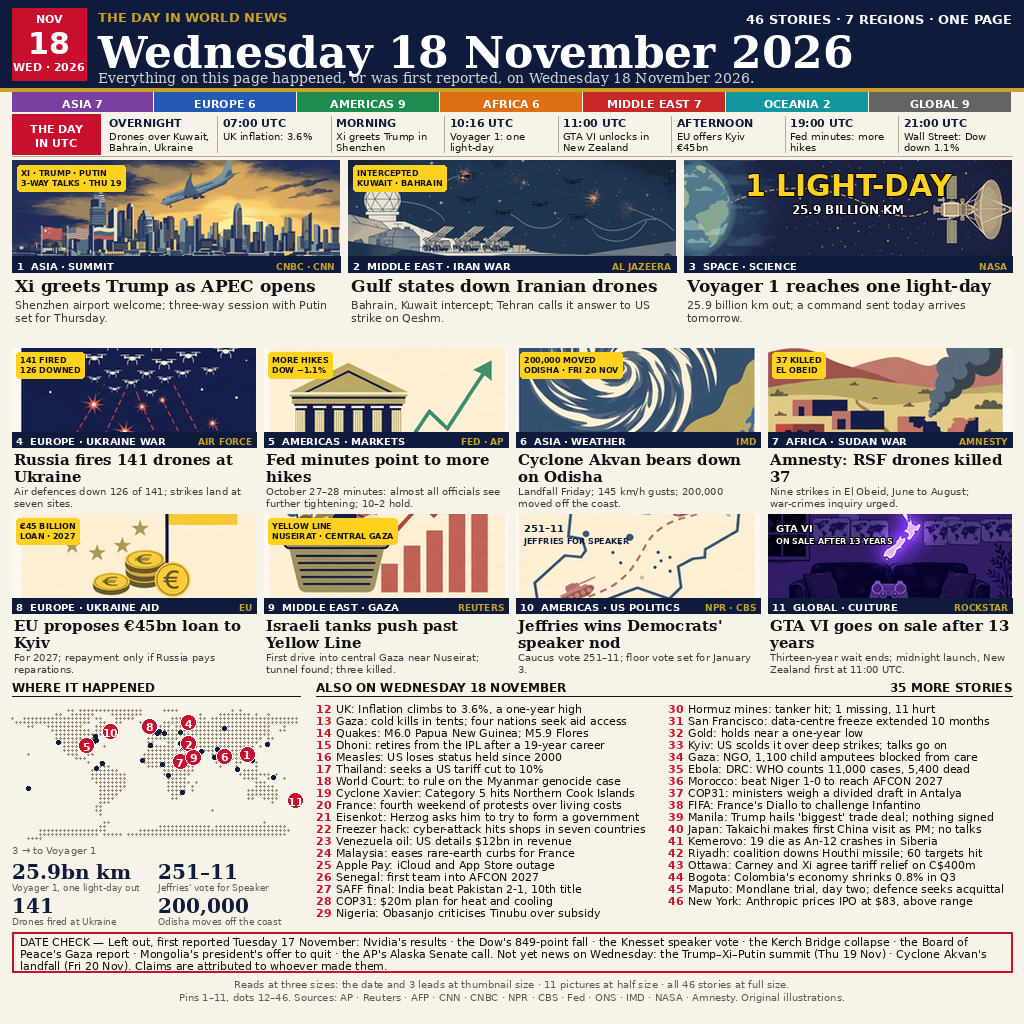
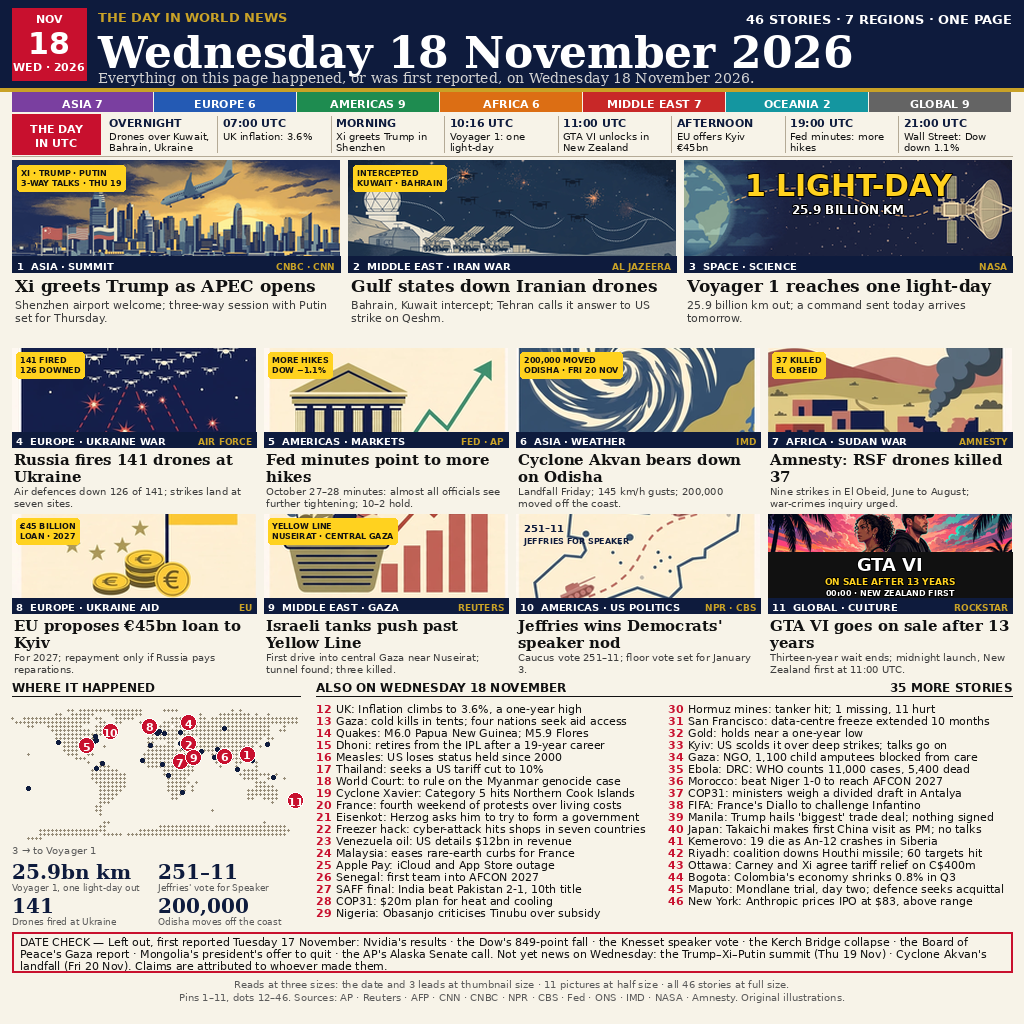
v13: GTA VI poster art + rstrike-style 3-line text

Changed region(s): [[0.75, 0.5, 1.0, 0.5938]]

diff --git a/draw.py b/draw.py
@@ -1,5 +1,5 @@
 #!/usr/bin/env python3
-"""news-image-20261118 v12: 46 stories, UTC timeline, region strip, small in-art tags.
+"""news-image-20261118 v13: 46 stories, UTC timeline, region strip, small in-art tags.
 Draws entry.png (1024x1024, deterministic) from assets/ + world.geo.json.
 Run: python3 draw.py  -> writes entry.png in this directory."""
 import json
@@ -48,6 +48,9 @@ F_FOC = font("DejaVuSans-Bold.ttf", 30)
 F_FOC_S = font("DejaVuSans-Bold.ttf", 12)
 F_FOC2 = font("DejaVuSans-Bold.ttf", 10)
 F_FOC2_S = font("DejaVuSans-Bold.ttf", 8)
+F_GTA = font("DejaVuSans-Bold.ttf", 18)
+F_GTA_S = font("DejaVuSans-Bold.ttf", 9)
+F_GTA_T = font("DejaVuSans-Bold.ttf", 8)
 F_ALSO = font("DejaVuSans.ttf", 11)
 F_ALSO_N = font("DejaVuSans-Bold.ttf", 11)
 F_SEC = font("DejaVuSans-Bold.ttf", 12)
@@ -122,7 +125,7 @@ FRONT = [
     (11, "GLOBAL", "CULTURE", "ROCKSTAR",
      "GTA VI goes on sale after 13 years",
      "Thirteen-year wait ends; midnight launch, New Zealand first at 11:00 UTC.",
-     "", ("GTA VI", "ON SALE AFTER 13 YEARS", "WHITE", False), "s8-11.png"),
+     "", ("GTA VI", "ON SALE AFTER 13 YEARS", "00:00 · NEW ZEALAND FIRST", "WHITE", True), "s13-11.png"),
 ]
 
 # num, city, text
@@ -255,12 +258,28 @@ def art_text(img, d, x, y, w, h, big, small, f_big, f_small):
                fill="white", stroke_width=1, stroke_fill=(0, 0, 0))
 
 
-def focal_text(d, x, y, w, h, big, small, f_big, f_small, color, center):
+def focal_text(d, x, y, w, h, big, small, f_big, f_small, color, center,
+               third=None, f_third=None, small_fill=None):
     """One focal line + one small line, rstrike-style: big only where the art
-    is built around it (dark space, pale map, dark photo)."""
+    is built around it (dark space, pale map, dark photo). Optional third
+    line (GTA band) is centred as a block inside the given box."""
     col = {"YELLOW": YELLOW, "NAVY": NAVY, "WHITE": "white"}[color]
-    small_col = "white" if color != "NAVY" else NAVY
+    small_col = small_fill if small_fill is not None else ("white" if color != "NAVY" else NAVY)
     stroke = 0 if color == "NAVY" else 1
+    if third is not None:
+        lines = [(big, f_big, col), (small, f_small, small_col),
+                 (third, f_third, "white")]
+        gaps = [4, 3]
+        total = sum(f.size for _, f, _ in lines) + sum(gaps)
+        yy = y + max(0, (h - total) // 2)
+        for k, (txt, fnt, fill) in enumerate(lines):
+            if not txt:
+                continue
+            tx = x + (w - d.textlength(txt, font=fnt)) / 2
+            d.text((tx, yy), txt, font=fnt, fill=fill,
+                   stroke_width=stroke, stroke_fill=(0, 0, 0))
+            yy += fnt.size + (gaps[k] if k < len(gaps) else 0)
+        return
     if center:
         bx = x + (w - d.textlength(big, font=f_big)) / 2
         sx = x + (w - d.textlength(small, font=f_small)) / 2 if small else 0
@@ -406,8 +425,15 @@ def main():
             im = cover(Image.open(os.path.join(A, fn)).convert("RGB"), sw_, 84)
             img.paste(im, (cx, cy))
             if focal:
-                focal_text(d, cx, cy, sw_, 84, focal[0], focal[1], F_FOC2, F_FOC2_S,
-                           focal[2], focal[3])
+                if num == 11:
+                    d.rectangle([cx, cy + 38, cx + sw_, cy + 84], fill=INK)
+                    focal_text(d, cx, cy + 38, sw_, 46, focal[0], focal[1],
+                               F_GTA, F_GTA_S, focal[3], focal[4],
+                               third=focal[2], f_third=F_GTA_T,
+                               small_fill=YELLOW)
+                else:
+                    focal_text(d, cx, cy, sw_, 84, focal[0], focal[1], F_FOC2, F_FOC2_S,
+                               focal[2], focal[3])
             else:
                 pill(d, cx + 4, cy + 4, tag)
             d.rectangle([cx, cy + 84, cx + sw_, cy + 99], fill=NAVY)

diff --git a/NOTES.md b/NOTES.md
@@ -26,4 +26,6 @@
 
 - Image v11 (user 19 Nov ~14:56 WIB: "Perkecil lagi jadi 1/3 untuk tulisannya yang di gambar"): teks focal dikecilkan jadi 1/3 — "1 LIGHT-DAY" 30px jadi 10px, "251–11" dan "GTA VI" 28px jadi 10px, baris kecil focal 12/11px jadi 8px (F_FOC/F_FOC2 10, F_FOC_S/F_FOC2_S 8). Pill kecil 11px TIDAK diubah (sudah kecil; 1/3-nya ~4px tidak terbaca). entry.png 505.269 byte, sha256 8dd05ca9e8058b2afa108b29572e9dc2487998bb2603b1c2860c4c3af4b68474, no truncation, verifikasi visual OK — teks focal kini kecil, pill kini sedikit lebih besar dari teks focal. Commit 887204a944ebfd5eced02f6fb681ce0e771a77ce, push 19 Nov ~15:03 WIB. Bundle baru sha256 ba806495056c1fb526657ddca5f21814ac0523e970a66d3af09a6966e6ceaabd (1.635.013 byte), system prompt uploaded, instructions collected. Gate 19 Nov ~15:03 WIB: GATE: ALLOW SUBMIT — 31/31 witnessed, kit check 14 pass 0 fail, grader-sandbox PASS deterministik, kuota sisa 2. BELUM disubmit — tunjukkan ke user dulu, submit hanya atas kata "submit".
 
-- Image v12 (user 19 Nov ~14:59 WIB: "Lah, yang 1 light day mah seperti sebelumnya saja. Untuk yang lain ituloh, yang warna kuning + text nya di perkecil"): "1 LIGHT-DAY" kembali BESAR seperti v10 (F_FOC 30px kuning tengah + "25.9 BILLION KM" 12px); pill kuning 8 gambar lain DIKECILKAN dari 11px jadi 8px (F_LABEL 8, pill() line-height ikut font jadi kotak ikut mengecil; nomor pin peta tetap 11px via F_PIN baru). "251–11" dan "GTA VI" tetap kecil 10px (bukan kuning, tidak disebut user). entry.png 518.653 byte, sha256 28b4e70e1d87b03254e465cf4839564e54c95dd1c9b2bfaf33f82ee41635347a, no truncation, semua lebar muat, verifikasi visual OK — pill kini kecil tapi masih terbaca, 1 LIGHT-DAY besar lagi. BELUM disubmit — tunjukkan ke user dulu, submit hanya atas kata "submit".
+- Image v12 (user 19 Nov ~14:59 WIB: "Lah, yang 1 light day mah seperti sebelumnya saja. Untuk yang lain ituloh, yang warna kuning + text nya di perkecil"): "1 LIGHT-DAY" kembali BESAR seperti v10 (F_FOC 30px kuning tengah + "25.9 BILLION KM" 12px); pill kuning 8 gambar lain DIKECILKAN dari 11px jadi 8px (F_LABEL 8, pill() line-height ikut font jadi kotak ikut mengecil; nomor pin peta tetap 11px via F_PIN baru). "251–11" dan "GTA VI" tetap kecil 10px (bukan kuning, tidak disebut user). entry.png 518.653 byte, sha256 28b4e70e1d87b03254e465cf4839564e54c95dd1c9b2bfaf33f82ee41635347a, no truncation, semua lebar muat, verifikasi visual OK — pill kini kecil tapi masih terbaca, 1 LIGHT-DAY besar lagi. Commit abfb83482c8330a45ada7b236160bb71fe901dfb, push 19 Nov ~15:05 WIB. Bundle baru sha256 4846471fbe2d25aab8555cbb82a8e1ed3951c28ad25a12b97157bb3a86aa615c (1.662.864 byte), system prompt uploaded, instructions collected. Gate 19 Nov ~15:05 WIB: GATE: ALLOW SUBMIT — 31/31 witnessed, kit check 14 pass 0 fail, grader-sandbox PASS deterministik, kuota sisa 2. BELUM disubmit — tunjukkan ke user dulu, submit hanya atas kata "submit".
+
+- Image v13 (user 19 Nov ~15:03 WIB: "untuk gta vi, coba rubah dari gambar nya ke seperti poster gta vi saja, dan kasih tulisannya seperti di lb 1"): panel #11 diganti art poster GTA VI baru (media tool, Lucia+Jason back-to-back, Vice City neon sunset, raw webp assets/media-generation-gta-poster-13-0-6c9e5cc4-7ceb-4fa9-8794-a132e71a4c52.webp, crop faces band y 0.20-0.715 jadi assets/s13-11.png 244x84 — wajah berdua utuh di atas band judul). Teks ala top 1 (rstrike, diverifikasi dari crop panelnya): "GTA VI" putih besar + "ON SALE AFTER 13 YEARS" kuning + "00:00 · NEW ZEALAND FIRST" putih, di atas band judul INK 46px di bawah gambar (focal_text 3-baris baru + font F_GTA 18/9/8). Satu bug saat build: tuple focal #11 jadi 5 elemen, index warna/center sempat salah (KeyError) — diperbaiki (color focal[3], center focal[4], third focal[2]). entry.png 513.883 byte, sha256 ba0bbba3f029487849082ab2d5f9daa8140d9e4c63f309507fd644777f4ad4df, no truncation, semua lebar muat, verifikasi visual OK — wajah berdua kelihatan, 3 baris teks terbaca. BELUM disubmit — tunjukkan ke user dulu, submit hanya atas kata "submit".
